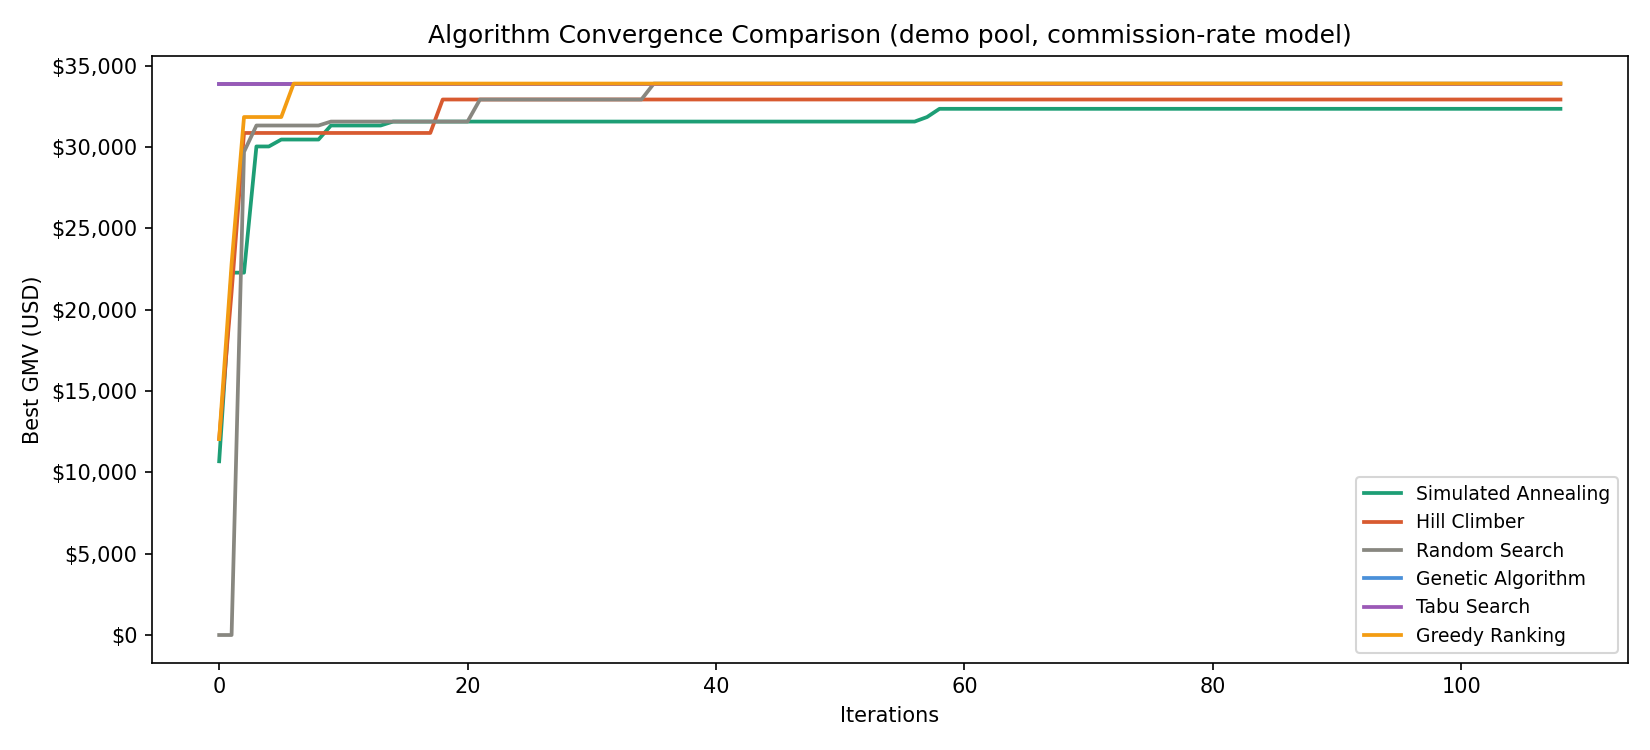
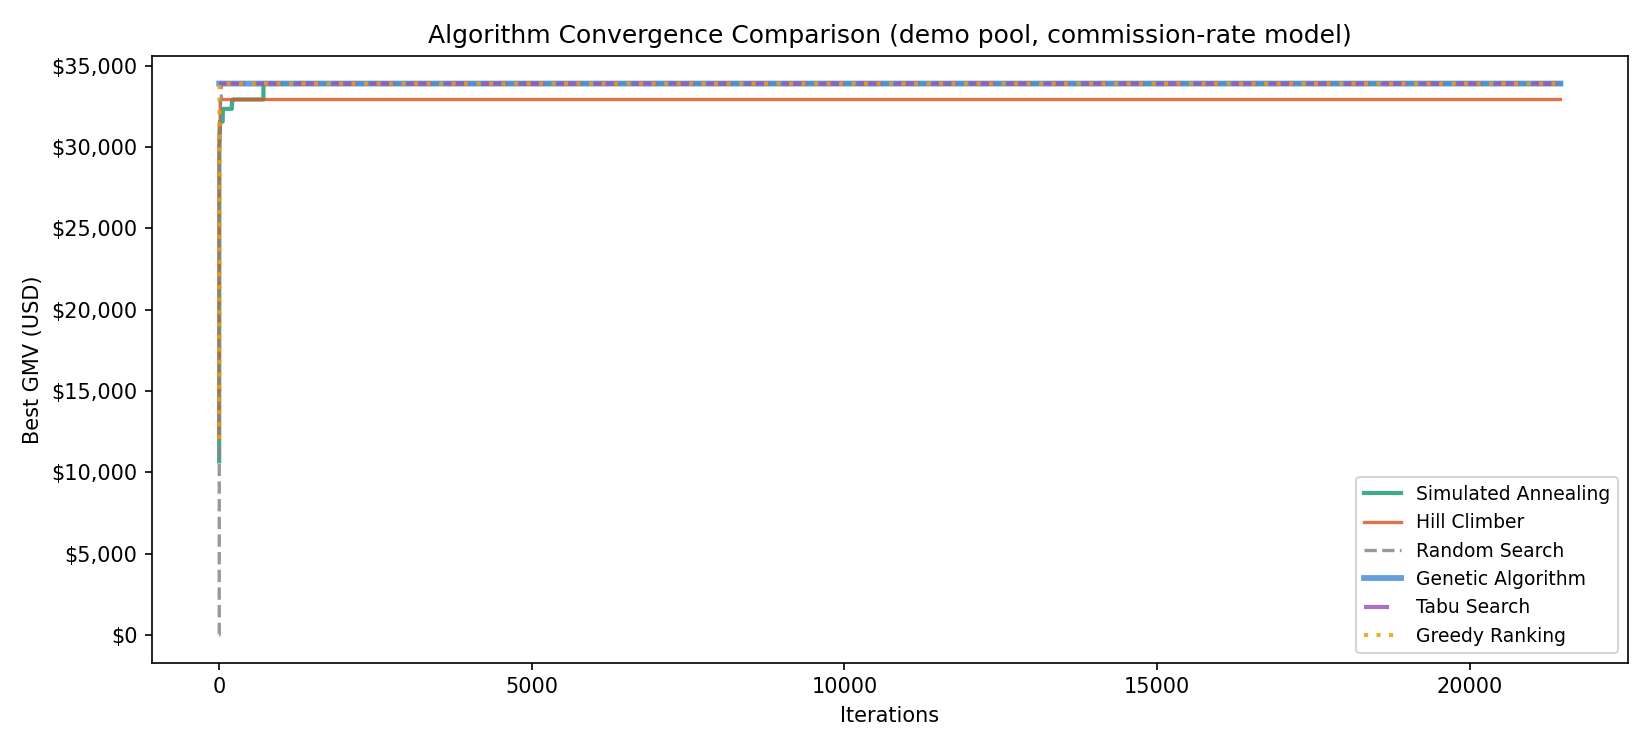
fix(figures): repair convergence chart + align report with the data
The convergence figure (run_comparison.py) truncated every history to the
shortest, so Genetic Algorithm vanished and Tabu Search cut off at iteration ~6.
Pad each history forward to a common length and use distinct dash/alpha styles
so all six algorithms are visible and span the x-axis; regenerate convergence.png.

Report fixes (verified against scalability_results.csv):
- §3.5 8-KOL trap demo: 5/6 methods converge to the optimum, HC alone trapped;
  state the raw GMV ($37.3K vs $36.4K) and clarify the plotted curve is the
  objective (net of overlap penalty, ≈$33.9K) — the old "$37–38K, HC lowest"
  no longer matched the figure.
- "2–8× faster" → "5–25×" in the abstract and §3.2 (real GR-vs-GA ratio is
  5.5×–52×; now matches §3.7/conclusion); abstract uplift harmonized to +49%/+201%.

scalability_time/gmv charts and the §3.2/§3.6/§3.7 tables were verified correct
and left unchanged. 128 tests pass.

diff --git a/experiments/run_comparison.py b/experiments/run_comparison.py
@@ -77,10 +77,30 @@ def run_experiment(budget=5000.0, seed=42, use_demo_case=True):
     os.makedirs("docs/figures", exist_ok=True)
 
     # ── Convergence chart ─────────────────────────────────────────
-    min_len = min(len(h) for h in all_hists.values())
+    # Pad every history forward to a common length (carry the last value) so
+    # short, early-stopping runs (Tabu Search; GA/Greedy after the greedy seed)
+    # still span the x-axis instead of being truncated to the shortest history.
+    max_len = max((len(h) for h in all_hists.values()), default=1)
+
+    def _pad(h):
+        return (h + [h[-1]] * (max_len - len(h))) if h else [0.0] * max_len
+
+    # Distinct dash patterns + light transparency keep the winners legible where
+    # GA / TS / Greedy Ranking plateau at the same GMV and would otherwise hide
+    # one another. GA is drawn thickest so it shows through the dashed overlays.
+    styles = {
+        "Simulated Annealing": ("-",          2.0),
+        "Hill Climber":        ("-",          1.6),
+        "Random Search":       ("--",         1.6),
+        "Genetic Algorithm":   ("-",          2.8),
+        "Tabu Search":         ((0, (6, 3)),  2.0),
+        "Greedy Ranking":      ((0, (1, 2)),  2.0),
+    }
     plt.figure(figsize=(11, 5))
     for name, hist in all_hists.items():
-        plt.plot(hist[:min_len], label=name, color=ALGO_COLORS[name], linewidth=1.8)
+        ls, lw = styles[name]
+        plt.plot(_pad(hist), label=name, color=ALGO_COLORS[name],
+                 linewidth=lw, linestyle=ls, alpha=0.85)
     plt.xlabel("Iterations")
     plt.ylabel("Best GMV (USD)")
     plt.title("Algorithm Convergence Comparison (demo pool, commission-rate model)")

diff --git a/docs/report_draft.md b/docs/report_draft.md
@@ -10,7 +10,7 @@
 
 ## (b) Abstract
 
-Cross-border TikTok Shop merchants operating in Southeast Asia face a combinatorial budget allocation problem: given a fixed marketing spend and a pool of hundreds of potential KOL creators, which subset maximizes predicted gross merchandise value (GMV)? This project formulates the problem as a variant of the 0-1 knapsack problem and implements six optimization algorithms — Simulated Annealing, Hill Climber, Random Search, Genetic Algorithm, Tabu Search, and Greedy Ranking — to solve it. A multi-tenant full-stack web application (JWT login, per-merchant isolated data) allows merchants to run live optimization, manage their creator database, track KOL metric trends over time via snapshot history, and close the feedback loop through post-campaign attribution that **self-calibrates future predictions** from realised GMV (at global, market×category, and per-creator resolution). A reproducible benchmark over pool sizes N ∈ {50, 100, 200, 500} (fixed budget $5,000, mean of 10 seeds) shows that the naïve Hill Climber is the weakest algorithm at every scale — and is the only method whose GMV *falls* as the pool grows — while the best algorithm's advantage over it widens from 50% at N=50 to 200% at N=500, directly confirming the "budget-exhaustion local-optima trap" hypothesis. At scale the lead is shared by the Genetic Algorithm and the 2-opt-augmented Greedy Ranking (GA tops all four pool sizes, reaching $73.5K at N=500; GR ties it within ≈1% — e.g. $60.9K vs $61.0K at N=200), with Tabu Search within a few percent up to N=100. GA wins on solution quality while Greedy Ranking matches it within ≈1% at large N while running 2–8× faster, making GR the best quality-per-second default; Simulated Annealing forms a middle tier under its live-default parameters, and Random Search trails the structured methods at every scale as a proper lower-bound baseline. The three constructive/memory solvers (GA, GR, TS) are warm-started from a multi-strategy greedy seed that takes the better of a GMV-descending and a GMV/cost-ratio-descending fill — a guard that prevents the ratio-only heuristic from squandering the budget on many small, mutually-overlapping creators on skewed pools.
+Cross-border TikTok Shop merchants operating in Southeast Asia face a combinatorial budget allocation problem: given a fixed marketing spend and a pool of hundreds of potential KOL creators, which subset maximizes predicted gross merchandise value (GMV)? This project formulates the problem as a variant of the 0-1 knapsack problem and implements six optimization algorithms — Simulated Annealing, Hill Climber, Random Search, Genetic Algorithm, Tabu Search, and Greedy Ranking — to solve it. A multi-tenant full-stack web application (JWT login, per-merchant isolated data) allows merchants to run live optimization, manage their creator database, track KOL metric trends over time via snapshot history, and close the feedback loop through post-campaign attribution that **self-calibrates future predictions** from realised GMV (at global, market×category, and per-creator resolution). A reproducible benchmark over pool sizes N ∈ {50, 100, 200, 500} (fixed budget $5,000, mean of 10 seeds) shows that the naïve Hill Climber is the weakest algorithm at every scale — and is the only method whose GMV *falls* as the pool grows — while the best algorithm's advantage over it widens from +49% at N=50 to +201% at N=500, directly confirming the "budget-exhaustion local-optima trap" hypothesis. At scale the lead is shared by the Genetic Algorithm and the 2-opt-augmented Greedy Ranking (GA tops all four pool sizes, reaching $73.5K at N=500; GR ties it within ≈1% — e.g. $60.9K vs $61.0K at N=200), with Tabu Search within a few percent up to N=100. GA wins on solution quality while Greedy Ranking matches it within ≈1% at large N while running 5–25× faster, making GR the best quality-per-second default; Simulated Annealing forms a middle tier under its live-default parameters, and Random Search trails the structured methods at every scale as a proper lower-bound baseline. The three constructive/memory solvers (GA, GR, TS) are warm-started from a multi-strategy greedy seed that takes the better of a GMV-descending and a GMV/cost-ratio-descending fill — a guard that prevents the ratio-only heuristic from squandering the budget on many small, mutually-overlapping creators on skewed pools.
 
 ---
 
@@ -292,7 +292,7 @@ The central experiment: all six algorithms run at N ∈ {50, 100, 200, 500} with
 
 1. **Hill Climber is the weakest at every scale, and is the only method whose GMV *falls* with N.** While every structured method climbs as the pool grows, HC actually *declines* ($27.6K at N=50 → $24.4K at N=500): a bigger pool offers more tempting expensive creators for it to commit its budget to, and its single random bit-flip can never escape that basin. The best algorithm beats HC by +49% at N=50, rising monotonically to **+201% at N=500** (a ~3× gap). This is the budget-exhaustion local-optima trap, measured directly — and the *widening* gap is itself the value of structured search.
 
-2. **GA leads on quality everywhere; 2-opt Greedy Ranking ties it at scale.** GA tops all four pool sizes ($73.5K at N=500); GR ties it within ≈1% at N≥200 ($60.9K vs $61.0K at N=200; $73.1K vs $73.5K at N=500). The two are statistically tied at N≥200. GR is not a naïve baseline — after its multi-strategy greedy fill it runs 2-opt swaps and drop-improvement, which is why it matches population search while running 2–8× faster (see §3.6).
+2. **GA leads on quality everywhere; 2-opt Greedy Ranking ties it at scale.** GA tops all four pool sizes ($73.5K at N=500); GR ties it within ≈1% at N≥200 ($60.9K vs $61.0K at N=200; $73.1K vs $73.5K at N=500). The two are statistically tied at N≥200. GR is not a naïve baseline — after its multi-strategy greedy fill it runs 2-opt swaps and drop-improvement, which is why it matches population search while running 5–25× faster (see §3.6).
 
 3. **TS matches the leaders up to N=100.** Tabu Search is within a few percent of GA at both N=50 ($39.6K) and N=100 ($49.6K); we cap it at N≤100 because its full O(N²) neighbourhood enumeration scales quadratically (its runtime already more than doubles from N=50 to N=100; §3.6).
 
@@ -361,7 +361,7 @@ See `docs/figures/convergence_panels.png` (three-panel N=20/50/100, proportional
 
 **At N=100:** GA, TS and GR jump to a strong value almost immediately thanks to greedy seeding / ratio-sorting. SA starts from a cold (empty) portfolio and climbs *steadily*, then makes a late jump that — at this tighter **proportional** budget ($2,500) — carries it to the top of the panel. This is the mirror image of the fixed-$5,000 N=100 setting in §3.2, where the larger feasible set leaves SA's fixed evaluation budget spread thin and it lands mid-tier: SA's relative standing depends heavily on how generous the budget is. Random Search trails the seeded methods, and HC stays flat near the bottom.
 
-**8-KOL trap demo (`convergence.png`):** On the hand-built scenario where one expensive Macro creator tempts a greedy solver, all global methods (SA, GA, TS) and Greedy Ranking reach ≈$37–38K while HC settles slightly lower (≈$36.4K), confirming the trap on a minimal, human-readable instance. (This instance is fixed in code, independent of the synthetic generator.)
+**8-KOL trap demo (`convergence.png`):** On the hand-built scenario where one expensive Macro creator tempts a greedy solver, **five of the six methods — SA, GA, TS, Greedy Ranking, and even Random Search on this tiny pool — converge to the same optimum within a handful of iterations**, while **Hill Climber alone stays trapped a notch below** and never escapes (the lower flat line). Their realised portfolios reach **$37.3K GMV versus HC's $36.4K** (`comparison_summary.csv`); the plotted curve is the search *objective* (GMV net of the audience-overlap penalty), which is why the shared plateau reads ≈$33.9K rather than the raw figure. This confirms the trap on a minimal, human-readable instance — only the naïve hill-climb fails to reach the optimum. (The instance is fixed in code, independent of the synthetic generator.)
 
 ---
 
